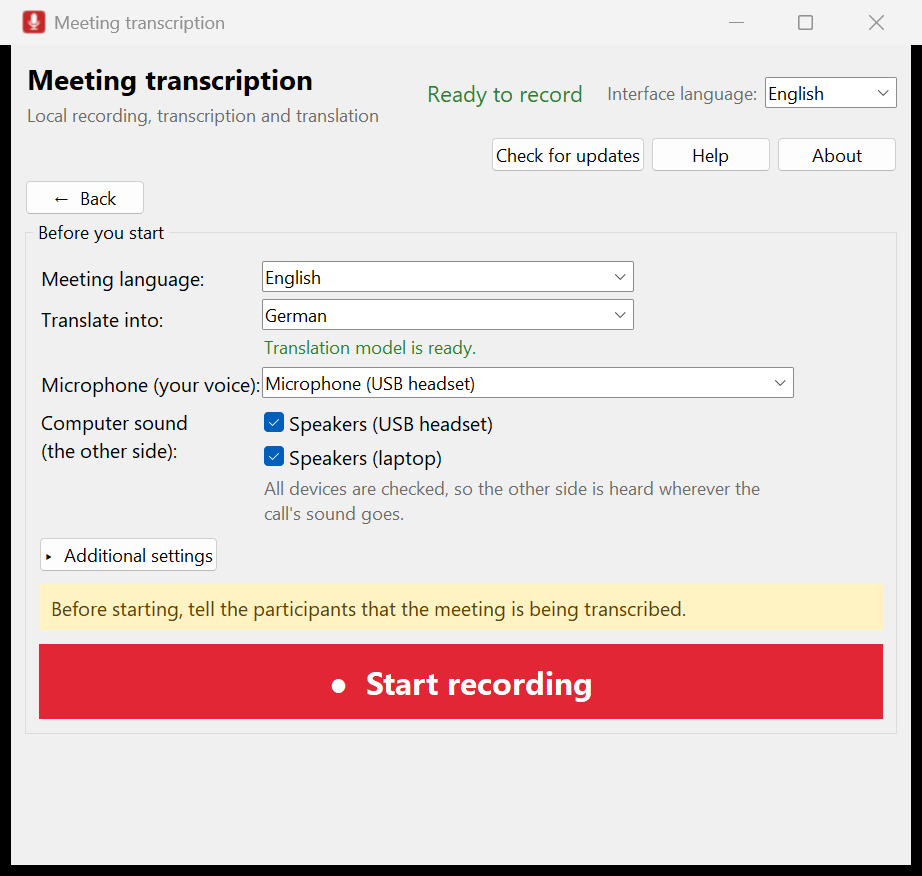
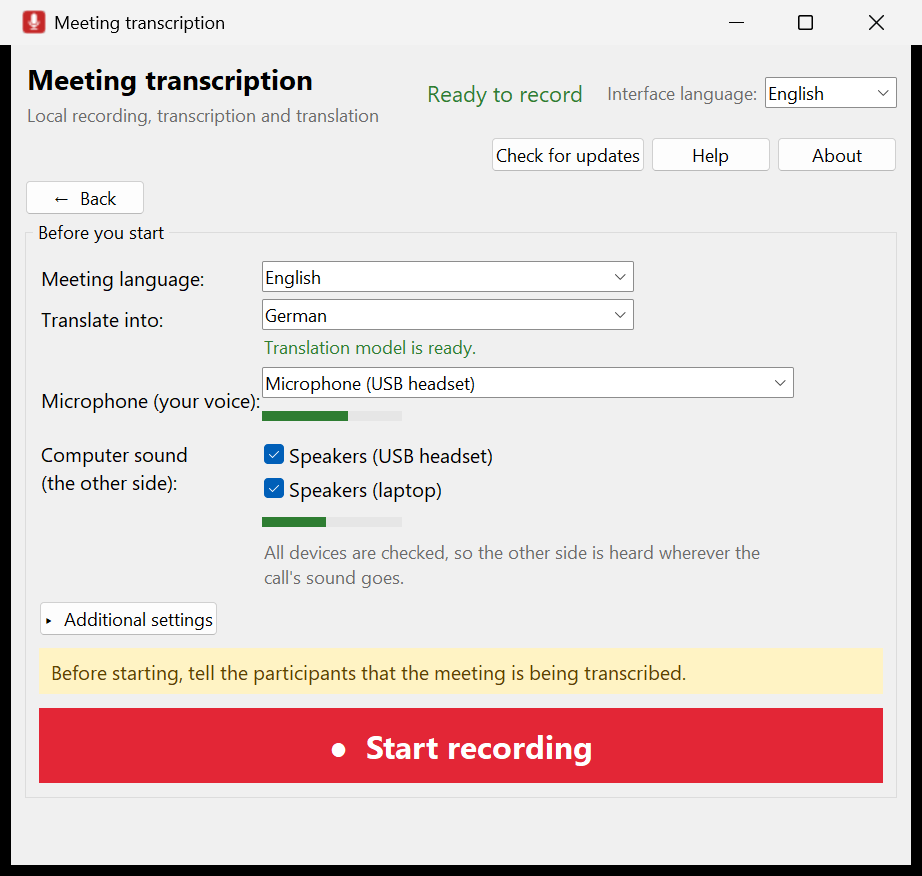
docs: retake README screenshots for v1.28

diff --git a/README.md b/README.md
@@ -144,10 +144,17 @@ The live workflow has five explicit states: preparation, translation-model downl
 finishing the last phrases, and creating results. The folder can be edited or chosen with the
 system dialog; less-used options stay under **Additional settings**. During recording, drafts are
 shown separately from confirmed text and the translation column can be hidden temporarily.
+Before the start, level bars show that the microphone and the computer sound are heard.
+
+![Meeting now on Windows: Back, meeting language, translation into German with its model ready, the microphone and computer sound with their level bars, and the red Start recording button](docs/screenshots/2-before.png)
+
+The processing shows its steps while it runs; the full log is under **Details**. When it ends,
+the results come first, and the taskbar button flashes with a notification if the window is in
+the background.
 
 <p>
-<img src="docs/screenshots/2-before.png" alt="Meeting now on Windows: Back, meeting language, translation into German with its model ready, microphone and computer sound, and the red Start recording button" width="49%">
-<img src="docs/screenshots/3-recording.png" alt="Transcribing a recording made elsewhere on Windows: language, speakers, translation and AI options, the processing log, and buttons to open the text and its translation" width="49%">
+<img src="docs/screenshots/3-processing.png" alt="Transcribing a recording on Windows: Stop processing, and the steps Transcription and Speakers running, Translation into German waiting" width="49%">
+<img src="docs/screenshots/4-results.png" alt="The same recording done in 1 minute: a green panel with the primary Open text button, Open translation, Open folder, Change the settings and run again, and Details" width="49%">
 </p>
 
 The results of a recording go into a folder next to it:
